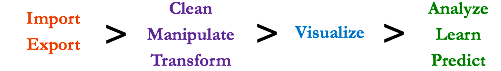
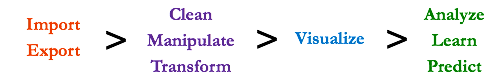
image spacing

diff --git a/microsoft-r/scaler/scaler.md b/microsoft-r/scaler/scaler.md
@@ -48,7 +48,7 @@ If you are looking for the functions optimized for Hadoop, Teradata, or SQL Serv
 &nbsp;&nbsp;&nbsp;&nbsp;&nbsp;&nbsp;&nbsp;&nbsp;&nbsp;&nbsp;&nbsp;&nbsp;&nbsp;&nbsp;&nbsp;&nbsp;
 ![import](../media/scaler/import.png)
 ![import](../media/scaler/manip.png)
-![import](../media/scaler/viz.png)
+![import](../media/scaler/viz.png)&nbsp;
 ![import](../media/scaler/analytics.png)
 <br />&nbsp;&nbsp;&nbsp;&nbsp;&nbsp;&nbsp;&nbsp;&nbsp;&nbsp;&nbsp;&nbsp;&nbsp;&nbsp;&nbsp;&nbsp;&nbsp;![import](../media/scaler/data-science-labels.png)
 
